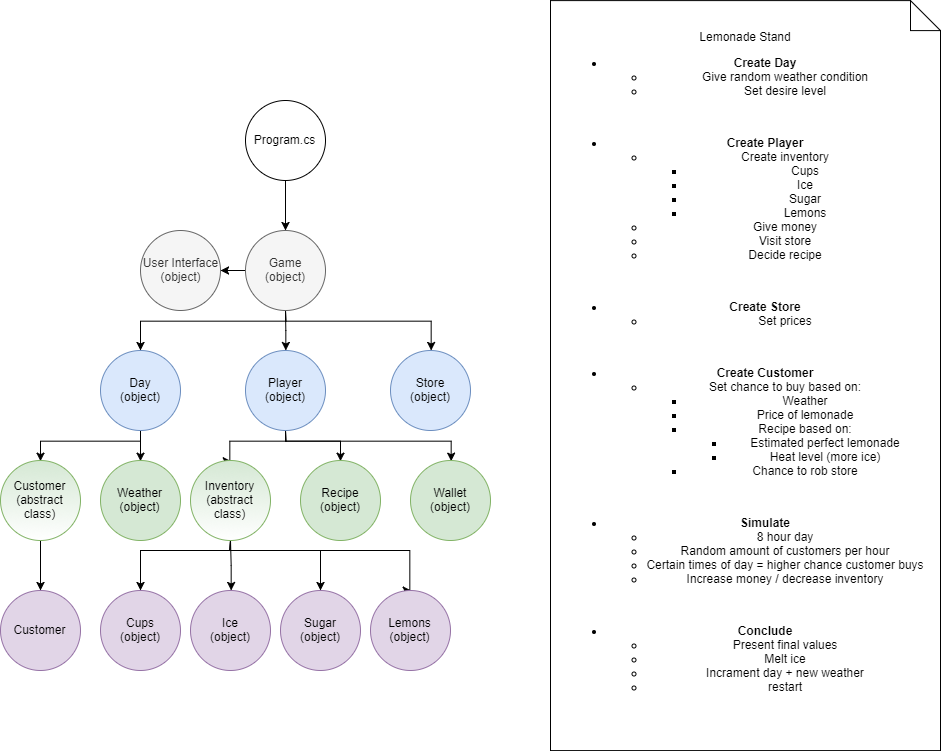
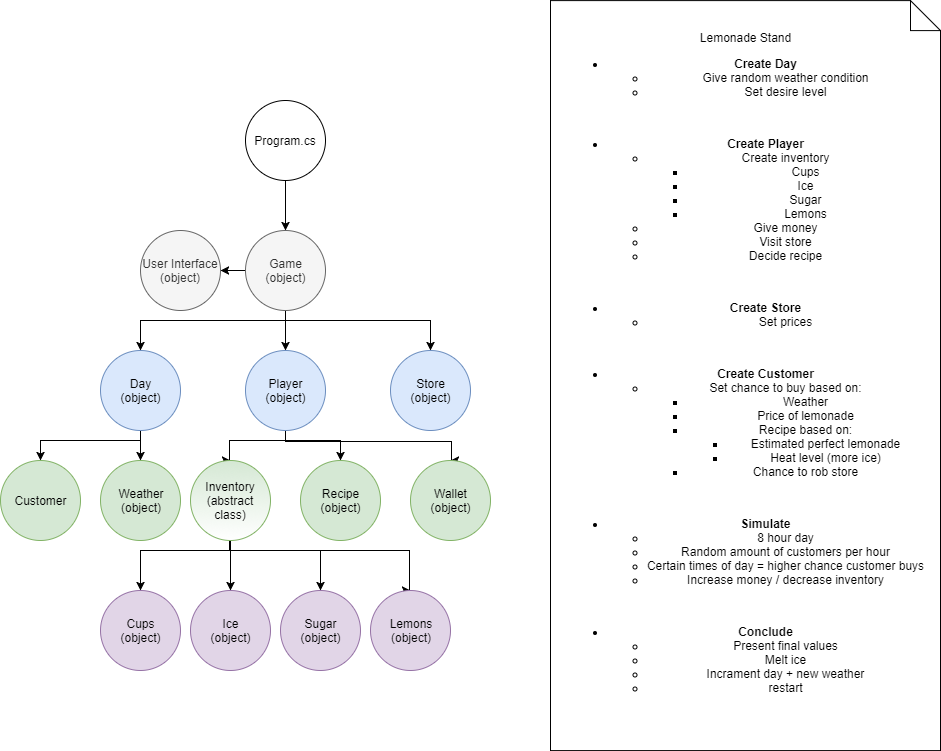
Added all Classes Present in Flow Chart + Updated Flow Chart

diff --git a/LemonadeStand/LemonadeStand/Inventory.cs b/LemonadeStand/LemonadeStand/Inventory.cs
@@ -1,0 +1,12 @@
+using System;
+using System.Collections.Generic;
+using System.Linq;
+using System.Text;
+using System.Threading.Tasks;
+
+namespace LemonadeStand
+{
+    public abstract class Inventory
+    {
+    }
+}

diff --git a/LemonadeStand/LemonadeStand/Lemons.cs b/LemonadeStand/LemonadeStand/Lemons.cs
@@ -1,0 +1,12 @@
+using System;
+using System.Collections.Generic;
+using System.Linq;
+using System.Text;
+using System.Threading.Tasks;
+
+namespace LemonadeStand
+{
+    class Lemons : Inventory
+    {
+    }
+}

diff --git a/LemonadeStand/LemonadeStand/Sugar.cs b/LemonadeStand/LemonadeStand/Sugar.cs
@@ -1,0 +1,12 @@
+using System;
+using System.Collections.Generic;
+using System.Linq;
+using System.Text;
+using System.Threading.Tasks;
+
+namespace LemonadeStand
+{
+    class Sugar : Inventory
+    {
+    }
+}

diff --git a/LemonadeStand/LemonadeStand/Cups.cs b/LemonadeStand/LemonadeStand/Cups.cs
@@ -1,0 +1,12 @@
+using System;
+using System.Collections.Generic;
+using System.Linq;
+using System.Text;
+using System.Threading.Tasks;
+
+namespace LemonadeStand
+{
+    class Cups : Inventory
+    {
+    }
+}

diff --git a/LemonadeStand/LemonadeStand/Ice.cs b/LemonadeStand/LemonadeStand/Ice.cs
@@ -1,0 +1,12 @@
+using System;
+using System.Collections.Generic;
+using System.Linq;
+using System.Text;
+using System.Threading.Tasks;
+
+namespace LemonadeStand
+{
+    class Ice : Inventory
+    {
+    }
+}

diff --git a/LemonadeStand/LemonadeStand/Customer.cs b/LemonadeStand/LemonadeStand/Customer.cs
@@ -1,0 +1,12 @@
+using System;
+using System.Collections.Generic;
+using System.Linq;
+using System.Text;
+using System.Threading.Tasks;
+
+namespace LemonadeStand
+{
+    class Customer
+    {
+    }
+}

diff --git a/LemonadeStand/LemonadeStand/Weather.cs b/LemonadeStand/LemonadeStand/Weather.cs
@@ -1,0 +1,12 @@
+using System;
+using System.Collections.Generic;
+using System.Linq;
+using System.Text;
+using System.Threading.Tasks;
+
+namespace LemonadeStand
+{
+    class Weather
+    {
+    }
+}

diff --git a/LemonadeStand/LemonadeStand/Player.cs b/LemonadeStand/LemonadeStand/Player.cs
@@ -1,0 +1,12 @@
+using System;
+using System.Collections.Generic;
+using System.Linq;
+using System.Text;
+using System.Threading.Tasks;
+
+namespace LemonadeStand
+{
+    class Player
+    {
+    }
+}

diff --git a/LemonadeStand/LemonadeStand/Recipe.cs b/LemonadeStand/LemonadeStand/Recipe.cs
@@ -1,0 +1,12 @@
+using System;
+using System.Collections.Generic;
+using System.Linq;
+using System.Text;
+using System.Threading.Tasks;
+
+namespace LemonadeStand
+{
+    class Recipe
+    {
+    }
+}

diff --git a/LemonadeStand/LemonadeStand/Wallet.cs b/LemonadeStand/LemonadeStand/Wallet.cs
@@ -1,0 +1,12 @@
+using System;
+using System.Collections.Generic;
+using System.Linq;
+using System.Text;
+using System.Threading.Tasks;
+
+namespace LemonadeStand
+{
+    class Wallet
+    {
+    }
+}

diff --git a/LemonadeStand/LemonadeStand/Store.cs b/LemonadeStand/LemonadeStand/Store.cs
@@ -1,0 +1,12 @@
+using System;
+using System.Collections.Generic;
+using System.Linq;
+using System.Text;
+using System.Threading.Tasks;
+
+namespace LemonadeStand
+{
+    class Store
+    {
+    }
+}

diff --git a/LemonadeStand/LemonadeStand/Game.cs b/LemonadeStand/LemonadeStand/Game.cs
@@ -1,0 +1,12 @@
+using System;
+using System.Collections.Generic;
+using System.Linq;
+using System.Text;
+using System.Threading.Tasks;
+
+namespace LemonadeStand
+{
+    class Game
+    {
+    }
+}
